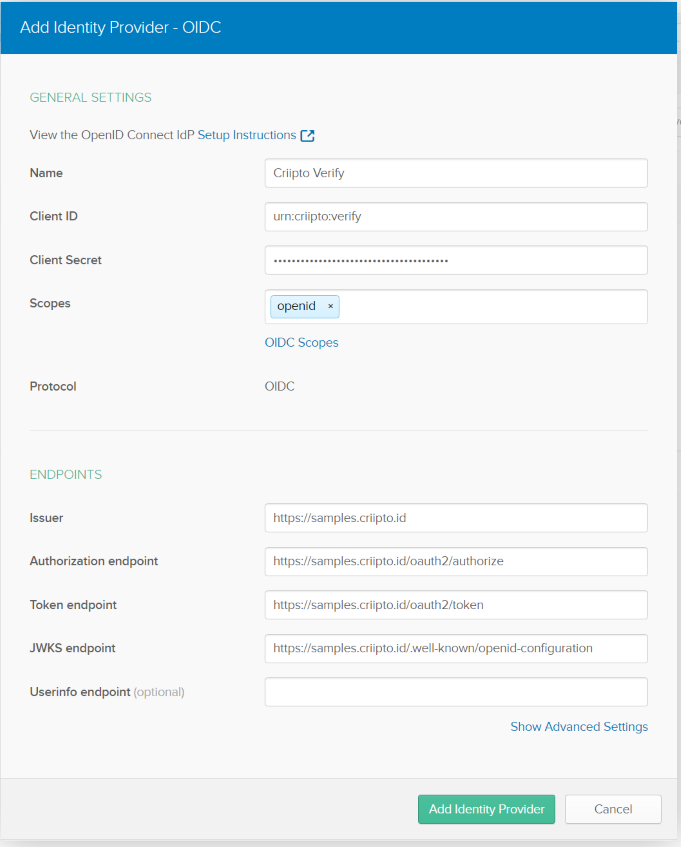
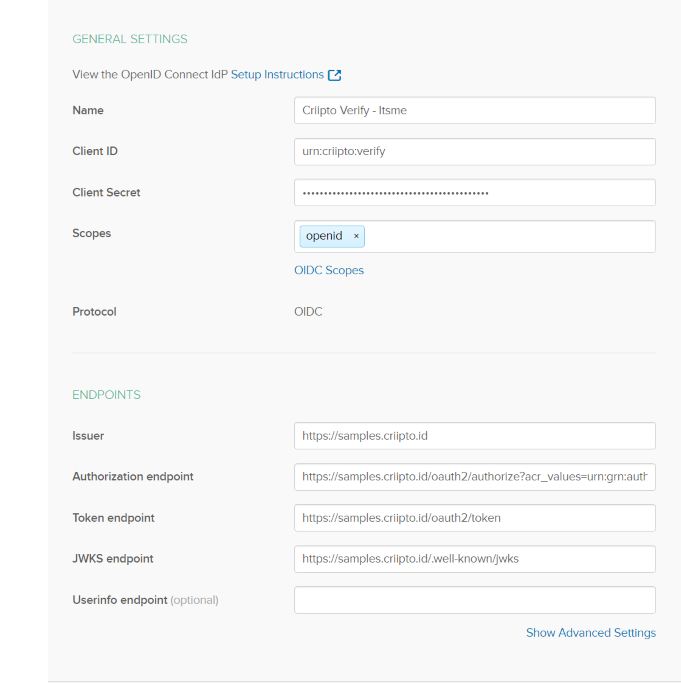
Incorporated feedback from Okta team. Added Itsme to list of supported
login methods.

diff --git a/authentication/okta.md b/authentication/okta.md
@@ -20,7 +20,7 @@ Once configured you may test that everything works from Okta.
 The setup requires a bit of switching back-and-forth between Criipto and Okta's respective management dashboards, so we recommend that you have them open simultaneously to make the process really smooth.
 
 Before you get started, you will need the following information:
-- The callback URL for your Okta tenant - this will depend on the DNS name you use in Okta for running your logins. The value will probably look something like `https://your-company-name.okta.com/oauth2/v1/authorize/callback`, but check your Okta settings to make sure. We have use `criipto-samples` as a replacement for `your-company-name` in this tutorial.
+- The callback URL for your Okta tenant - this will depend on the DNS name you use in Okta for running your logins. The value will probably look something like `https://your-company-name.okta.com/oauth2/v1/authorize/callback`, but check your Okta settings to make sure. We have used `criipto-samples` as a replacement for `your-company-name` in this tutorial.
 - _[Optional]_ The `post_logout_redirect_url` for your Okta tenant.
 
 <a name="register"></a>
@@ -67,18 +67,23 @@ Fill in the form with values for you Criipto Verify application, similar to the 
 
 ![Example identity provider](/images/okta-add-criipto-verify-example-identityprovider.png)
 
-Given the values above, you must add
-1. _Client ID_: `urn:criipto:verify`
+Given the values above, and assuming that your Criipto Verify domain is `acme-corp.criipto.id` you must add
+1. _Client ID_: `urn:criipto:verify` (if you have set a different value in your Criipto Verify `Client ID/Realm`, use that value instead here - they must match)
 2. _Client Secret_: The secret generated for you by Criipto Verify during the `OAuth code flow` setup
 3. _Scopes_: `openid` will suffice
-4. _Issuer_: `https://samples.criipto.id`
-5. _Authorization endpoint_: `https://samples.criipto.id/oauth2/authorize`
-6. _Token endpoint_: `https://samples.criipto.id/oauth2/token`
-7. _JWKS endpoint_: `https://samples.criipto.id/.well-known/jwks`
+4. _Issuer_: `https://acme-corp.criipto.id`
+5. _Authorization endpoint_: `https://acme-corp.criipto.id/oauth2/authorize?acr_values=urn:grn:authn:itsme:basic`
+6. _Token endpoint_: `https://acme-corp.criipto.id/oauth2/token`
+7. _JWKS endpoint_: `https://acme-corp.criipto.id/.well-known/jwks`
 
 The _Name_ is entirely up to you, and you don't have to specify the optional _Userinfo endpoint_ if you at the same time ensure that you configure your Criipto Verify application to use `fromTokenEndpoint` in the `User info response strategy` dropdown.
 
-{% include snippets/test-users.md %}
+{% iconnote note %}
+This setup assumes you are looking to authenticate your users with `Itsme` in `basic` mode. If you have other needs, replace the value of the `acr_values` parametery in the _Authorization endpoint_, or set up several _Identity Providers_ in your Okta tenant - see below for a list of all supported values.
+{% endiconnote %}
+
+### Supported `acr_values`
+{% include snippets/login-methods.md %} 
 
 {% iconnote note %}
 You can [find more details here](https://developer.okta.com/docs/guides/add-an-external-idp/openidconnect/configure-idp-in-okta/)

diff --git a/authentication/auth0.md b/authentication/auth0.md
@@ -77,6 +77,9 @@ Below is a list of supported login methods with corresponding base64 encoded `ac
 | &nbsp;&nbsp;BankID:                                    |`urn:grn:authn:fi:bankid` | `dXJuOmdybjphdXRobjpmaTpiYW5raWQ=` |
 | &nbsp;&nbsp;Mobile certificate (Mobiilivarmenne):&nbsp;|`urn:grn:authn:fi:mobile-id` | `dXJuOmdybjphdXRobjpmaTptb2JpbGUtaWQ=` |
 | &nbsp;&nbsp;Any of the two:                            |`urn:grn:authn:fi:all` | `dXJuOmdybjphdXRobjpmaTphbGw=` |
+| **Itsme** |
+| &nbsp;&nbsp;Basic:                                     | `urn:grn:authn:itsme:basic` | `dXJuOmdybjphdXRobjppdHNtZTpiYXNpYw==` |
+| &nbsp;&nbsp;Advanced:                                  | `urn:grn:authn:itsme:advanced` | `dXJuOmdybjphdXRobjppdHNtZTphZHZhbmNlZA==` |
 
 <hr />
 

diff --git a/_includes/snippets/login-methods.md b/_includes/snippets/login-methods.md
@@ -21,5 +21,7 @@ The current list of possible values is:
 | &nbsp;&nbsp;BankID:                                    |`urn:grn:authn:fi:bank-id` |
 | &nbsp;&nbsp;Mobile certificate (Mobiilivarmenne):&nbsp;|`urn:grn:authn:fi:mobile-id` | 
 | &nbsp;&nbsp;Any of the two:                            |`urn:grn:authn:fi:all` | 
-
+| **Itsme** |
+| &nbsp;&nbsp;Basic:                                     | `urn:grn:authn:itsme:basic` | 
+| &nbsp;&nbsp;Advanced:                                  | `urn:grn:authn:itsme:advanced` | 
 &nbsp;&nbsp;
